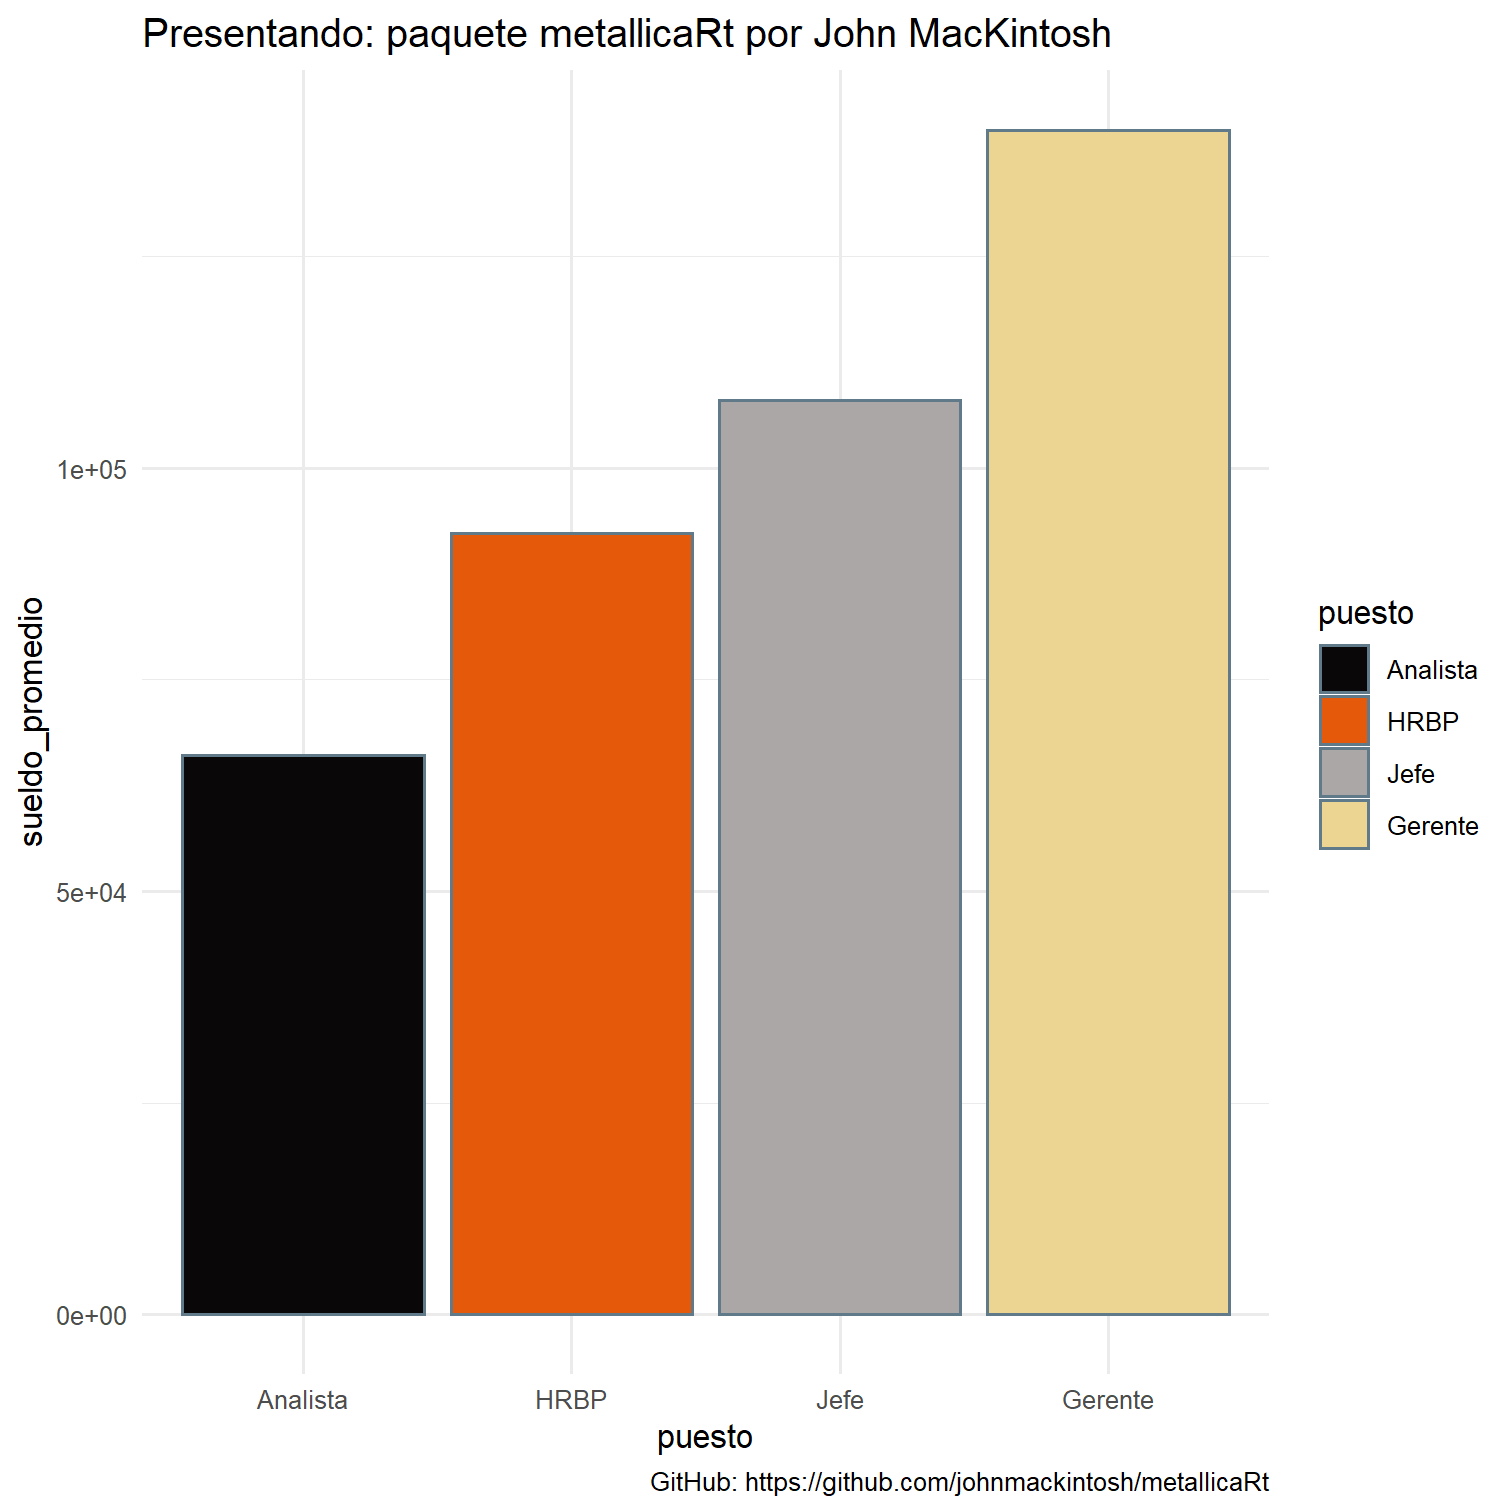
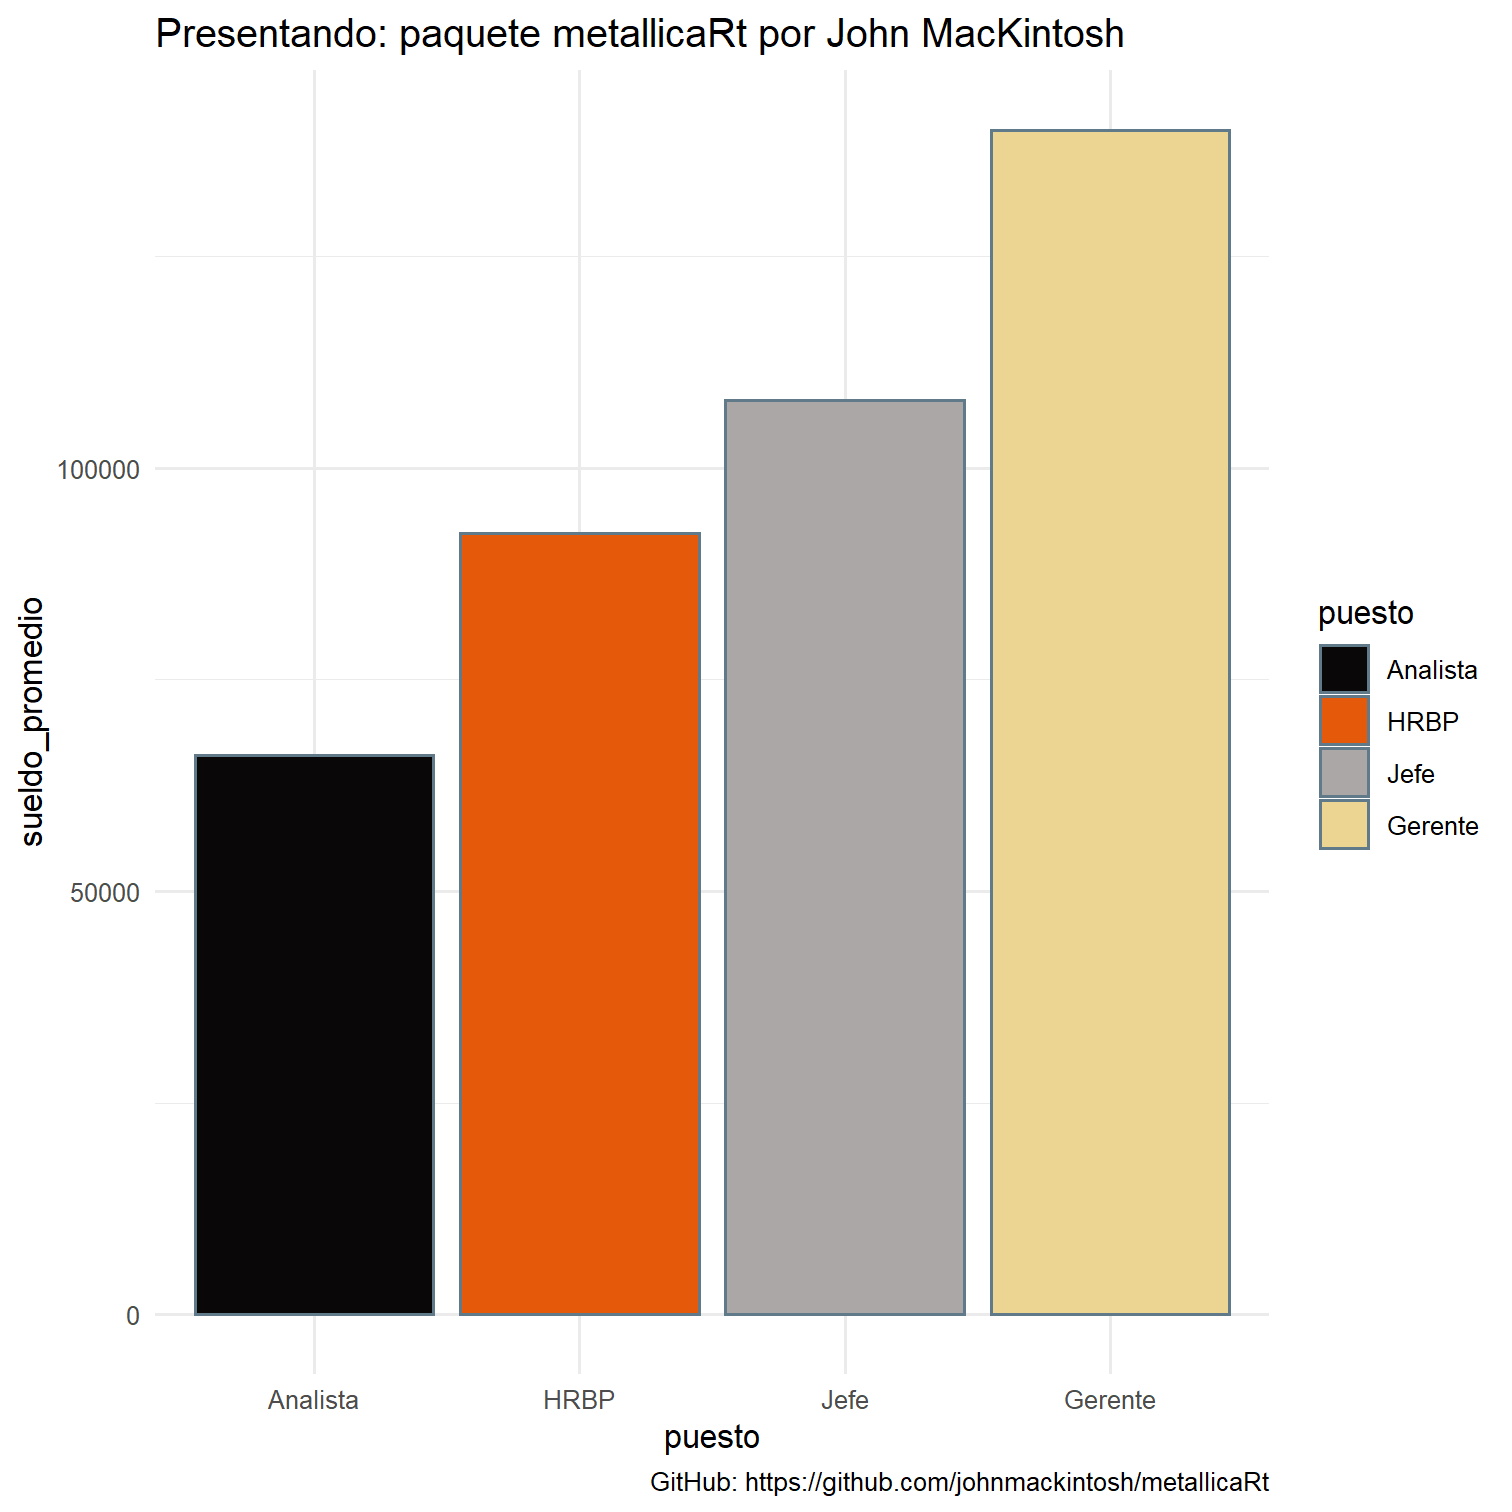
Seguimos retocando cosas

diff --git a/index.html b/index.html
@@ -319,6 +319,8 @@ Además, hay mucho paquetes y fuentes de datos para jugar, que son entretenidos 
 ```r
 library(tidyverse)
 
+options(scipen=999) # Elimina notación científica ejes
+
 # Carga de datos
 rh &lt;- read_delim("data/rh_ar.csv", delim = ";")
 
@@ -430,7 +432,8 @@ ggplot(d1) +
 * geom_bernie(aes(x = puesto, y = sueldo_promedio),
 *             bernie = "sitting") +
   labs(title = "Presentando: ggbernie por R-CoderDotCom",
-       caption = "GitHub: https://github.com/R-CoderDotCom/ggbernie")
+       caption = "GitHub: https://github.com/R-CoderDotCom/ggbernie")+
+  scale_y_continuous(limits = c(0, 200000))
 ```
 
 ---
